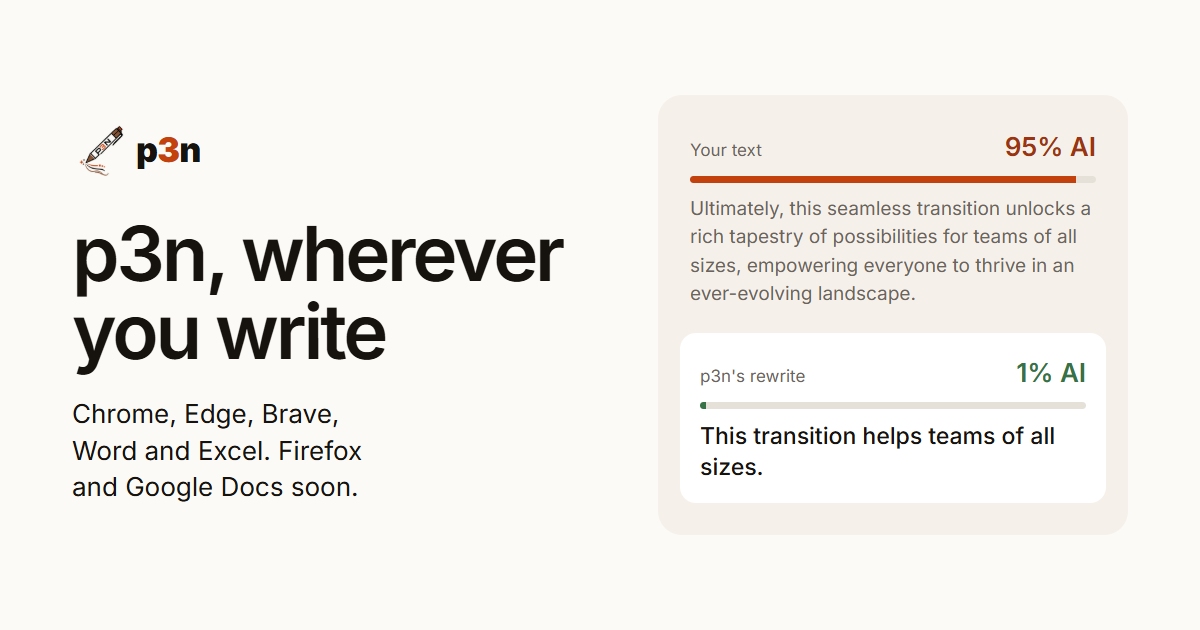
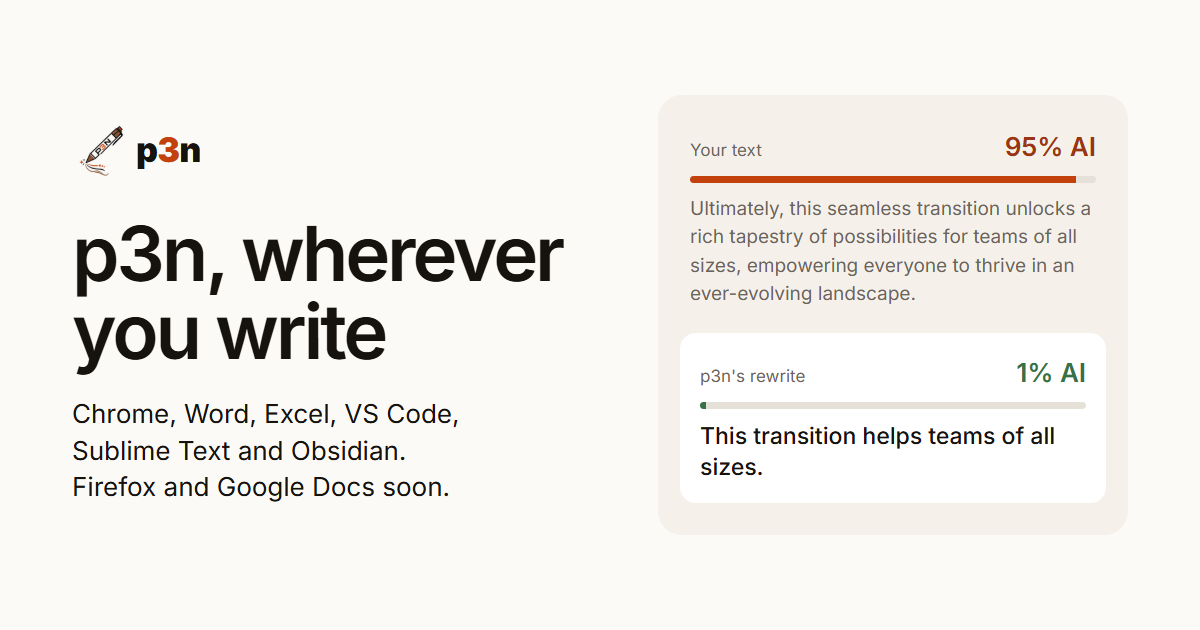
p3n page: VS Code, Sublime Text and Obsidian, installed from GitHub until their stores list them

Changed region(s): [[0.0617, 0.6333, 0.37, 0.8143]]

diff --git a/p3n/index.html b/p3n/index.html
@@ -3,18 +3,18 @@
 <head>
   <meta charset="utf-8">
   <meta name="viewport" content="width=device-width, initial-scale=1">
-  <title>Install p3n in Chrome, Word and Excel</title>
-  <meta name="description" content="Find the AI in any text, then rewrite it, in the app you're writing in. p3n for Chrome, Edge, Brave, Word and Excel; Firefox and Google Docs coming soon. Free to try, no account needed.">
+  <title>Install p3n: Chrome, Word, Excel, VS Code and more</title>
+  <meta name="description" content="Find the AI in any text, then rewrite it, in the app you're writing in. p3n for Chrome, Edge, Brave, Word, Excel, VS Code, Sublime Text and Obsidian; Firefox and Google Docs coming soon. Free to try, no account needed.">
   <link rel="canonical" href="https://nikita-andreiev.com/p3n/">
   <meta property="og:type" content="website">
   <meta property="og:site_name" content="p3n">
   <meta property="og:url" content="https://nikita-andreiev.com/p3n/">
   <meta property="og:title" content="p3n, wherever you write">
-  <meta property="og:description" content="Find the AI in any text, then rewrite it, in Chrome, Word and Excel. Firefox and Google Docs coming soon.">
+  <meta property="og:description" content="Find the AI in any text, then rewrite it, in Chrome, Word, Excel, VS Code, Sublime Text and Obsidian. Firefox and Google Docs coming soon.">
   <meta property="og:image" content="https://nikita-andreiev.com/p3n/og.png">
   <meta property="og:image:width" content="1200">
   <meta property="og:image:height" content="630">
-  <meta property="og:image:alt" content="p3n, wherever you write: Chrome, Edge, Brave, Word and Excel, with Firefox and Google Docs coming soon.">
+  <meta property="og:image:alt" content="p3n, wherever you write: Chrome, Word, Excel, VS Code, Sublime Text and Obsidian, with Firefox and Google Docs coming soon.">
   <meta name="twitter:card" content="summary_large_image">
   <meta name="color-scheme" content="light dark">
   <meta name="theme-color" content="#fbfaf7" media="(prefers-color-scheme: light)">
@@ -86,7 +86,7 @@
       <div class="wrap hero-in">
         <div class="hero-copy">
           <h1>p3n, wherever you write</h1>
-          <p class="lead">Find the AI in any text, then rewrite it, right in the app you're writing in: your browser, Word and Excel, and soon Google Docs.</p>
+          <p class="lead">Find the AI in any text, then rewrite it, right where you write: your browser, Word and Excel, VS Code, Sublime Text, Obsidian, and soon Google Docs.</p>
           <div class="actions">
             <a class="btn btn-accent" href="https://chromewebstore.google.com/detail/bingopgkcgafmnpkoeckijkcbnfmchnh" data-hero-install>Add to Chrome</a>
             <a class="btn btn-ghost" href="#apps">All apps</a>
@@ -168,6 +168,34 @@
           </dl>
         </article>
 
+        <article class="app" id="editors" aria-labelledby="editors-title">
+          <div class="app-text">
+            <h3 id="editors-title">VS Code, Sublime Text and Obsidian</h3>
+            <p>Select text in a file or a note and run p3n: Check for AI or p3n: Rewrite, from the right-click menu or the command palette. Results open beside your text in your editor's light or dark theme, and Replace selection is one undo step.</p>
+            <p class="note">They aren't in the editors' plugin stores yet, so you install them from GitHub for now. These installs don't update themselves; the store versions will.</p>
+          </div>
+          <figure class="app-shot">
+            <img src="/p3n/editors.webp" width="880" height="660" loading="lazy" alt="p3n in VS Code's dark theme: the p3n view after a rewrite, No longer reads as AI, 95% to 1%, next to the selected paragraph in a Markdown file.">
+          </figure>
+          <dl class="steps">
+            <div>
+              <dt>VS Code</dt>
+              <dd class="get"><a class="btn btn-ink" href="https://github.com/Barabosik/p3n-vscode/releases/latest">Get the .vsix</a></dd>
+              <dd>Download the .vsix file from the release. In the Extensions view, choose … › Install from VSIX… and pick it. VSCodium, Cursor and Windsurf install it the same way. Needs VS Code 1.90 or later.</dd>
+            </div>
+            <div>
+              <dt>Sublime Text</dt>
+              <dd class="get"><a class="btn btn-ink" href="https://github.com/Barabosik/p3n-sublime">Get it on GitHub</a></dd>
+              <dd>Choose Preferences › Browse Packages…, and in that folder run <code>git clone https://github.com/Barabosik/p3n-sublime.git p3n</code>, or unzip the repository into a folder named exactly <code>p3n</code>. Restart Sublime Text. Needs Sublime Text 4, build 4107 or later.</dd>
+            </div>
+            <div>
+              <dt>Obsidian</dt>
+              <dd class="get"><a class="btn btn-ink" href="https://github.com/Barabosik/p3n-obsidian/releases/latest">Get the release</a></dd>
+              <dd>Download <code>main.js</code>, <code>manifest.json</code> and <code>styles.css</code> into <code>&lt;your vault&gt;/.obsidian/plugins/p3n/</code>, then turn on p3n in Settings › Community plugins. Works on desktop and mobile.</dd>
+            </div>
+          </dl>
+        </article>
+
         <article class="app" id="docs" aria-labelledby="docs-title">
           <div class="app-text">
             <h3 id="docs-title">Google Docs</h3>
@@ -190,7 +218,7 @@
         </div>
         <div class="fact">
           <h2>Open source</h2>
-          <p>Every app is MIT-licensed on GitHub: the <a href="https://github.com/Barabosik/p3n-chrome-extension">browser extension</a>, the <a href="https://github.com/Barabosik/p3n-office-addin">Word and Excel add-in</a> and the <a href="https://github.com/Barabosik/p3n-google-docs-addon">Google Docs add-on</a>.</p>
+          <p>Every app is MIT-licensed on GitHub: the <a href="https://github.com/Barabosik/p3n-chrome-extension">browser extension</a>, the <a href="https://github.com/Barabosik/p3n-office-addin">Word and Excel add-in</a>, the <a href="https://github.com/Barabosik/p3n-google-docs-addon">Google Docs add-on</a>, and the plugins for <a href="https://github.com/Barabosik/p3n-vscode">VS Code</a>, <a href="https://github.com/Barabosik/p3n-sublime">Sublime Text</a> and <a href="https://github.com/Barabosik/p3n-obsidian">Obsidian</a>.</p>
         </div>
       </div>
     </section>

diff --git a/index.html b/index.html
@@ -183,7 +183,7 @@
         <div class="project-text" data-stagger>
           <h3 class="project-title">p3n for Chrome</h3>
           <p>p3n's browser extension, now in the Chrome Web Store. Select text on any page, right-click, and see whether it reads as AI-written and which sentences give it away. Rewrite drops the filler, and Replace puts the new version where your text was. It runs in Edge and Brave too.</p>
-          <p>Firefox and Google Docs versions are in store review; Word and Excel install from the all-apps page for now.</p>
+          <p>Firefox and Google Docs versions are in store review; Word, Excel, VS Code, Sublime Text and Obsidian install from the all-apps page for now.</p>
           <p class="project-meta">JavaScript, Manifest V3, a side panel. Your text leaves the browser only when you click.</p>
           <div class="actions">
             <a class="button" href="https://chromewebstore.google.com/detail/bingopgkcgafmnpkoeckijkcbnfmchnh">Add to Chrome</a>

diff --git a/p3n/style.css b/p3n/style.css
@@ -171,7 +171,9 @@ code { font: 14px / 1.5 var(--mono); background: var(--tint); border-radius: 4px
 .steps { grid-column: 1 / -1; display: grid; grid-template-columns: repeat(3, minmax(0, 1fr)); gap: 32px; padding: 40px 48px 48px; }
 .steps dt { font-weight: 600; }
 .steps dd { margin-top: 6px; font-size: 16px; line-height: 1.6; }
-.steps a, .fact a, .foot a { color: var(--accent-ink); }
+.steps dd.get { margin-top: 12px; }
+.steps .btn { min-height: 40px; padding: 0 16px; font-size: 15px; }
+.steps a:not(.btn), .fact a, .foot a { color: var(--accent-ink); }
 
 /* ---------- privacy, price, source ---------- */
 .facts { padding: 112px 0; }
